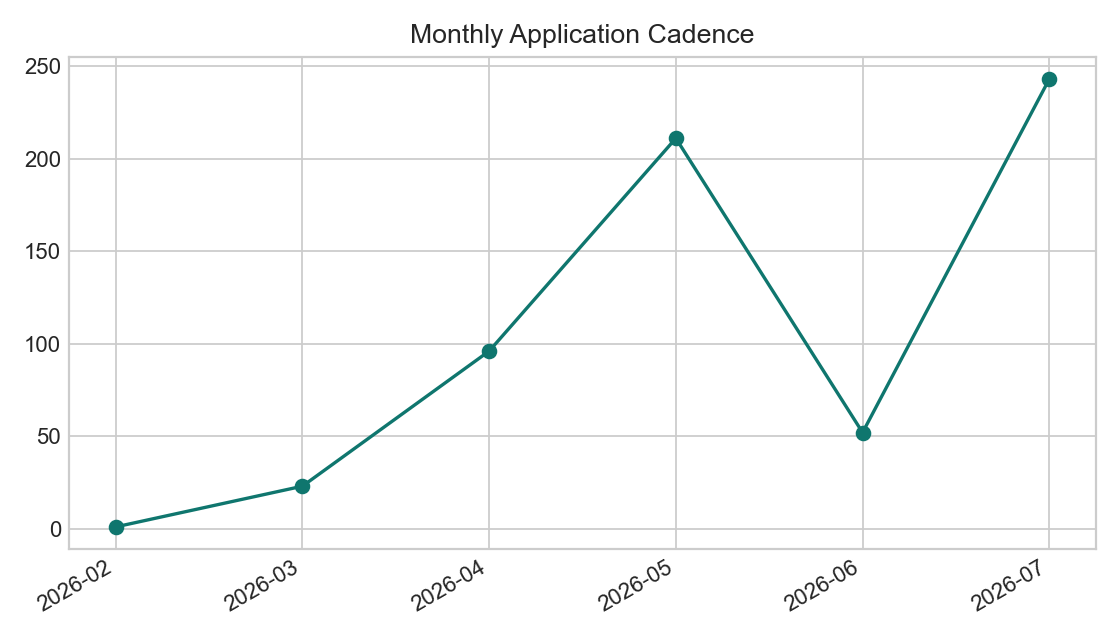
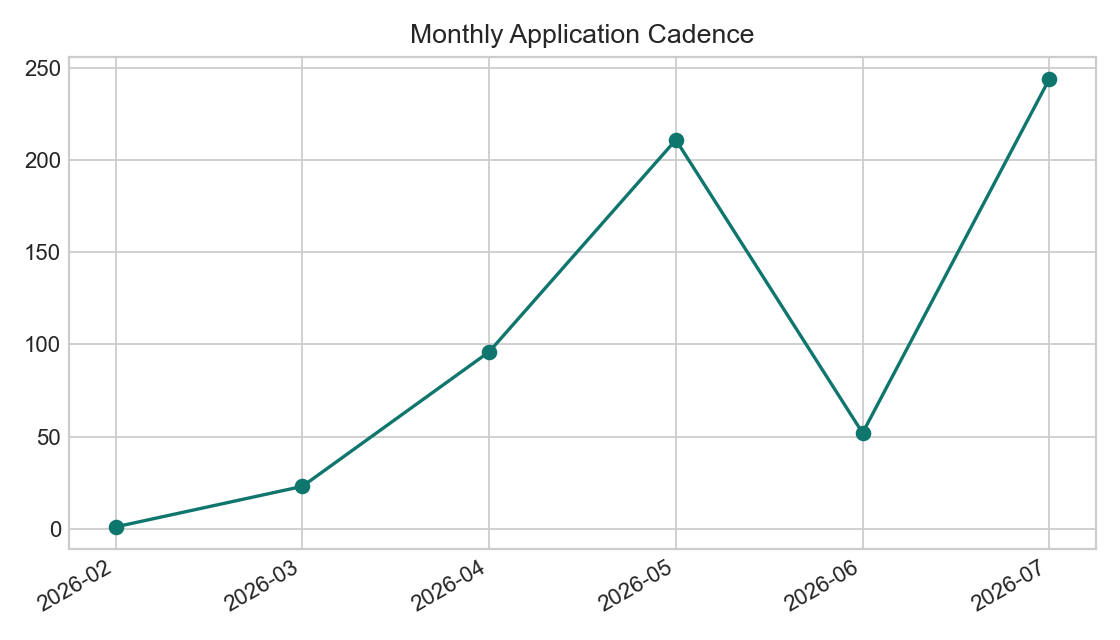
Refresh analytics for 778 merged roles (2026-07-30)

diff --git a/data/daily_summary.md b/data/daily_summary.md
@@ -1,6 +1,6 @@
 # Daily Job Search Summary
 
-_Last refreshed: 2026-07-30T19:39:33-07:00_
+_Last refreshed: 2026-07-30T23:11:10-07:00_
 
 ## Positioning
 
@@ -10,8 +10,8 @@ _Last refreshed: 2026-07-30T19:39:33-07:00_
 
 ## Snapshot
 
-- Tracked roles: 777
-- Active roles: 429
+- Tracked roles: 778
+- Active roles: 430
 - Response rate: 0.8%
 - LinkedIn outreach sent: 28
 - Pending pipeline items: 155
@@ -20,7 +20,7 @@ _Last refreshed: 2026-07-30T19:39:33-07:00_
 
 ## Status Breakdown
 
-- applied: 415
+- applied: 416
 - applied ✅: 1
 - discarded: 5
 - evaluated: 10
@@ -31,6 +31,7 @@ _Last refreshed: 2026-07-30T19:39:33-07:00_
 
 ## Recent Activity
 
+- 2026-07-30: Medpace | Junior Data Governance Analyst | applied
 - 2026-07-29: Kemper | Associate, Audit Data Analyst | applied
 - 2026-07-29: Cruisebound | Data Scientist | applied
 - 2026-07-29: Fabletics | Data Analyst II | applied
@@ -40,7 +41,6 @@ _Last refreshed: 2026-07-30T19:39:33-07:00_
 - 2026-07-29: Mattel | Consumer Data Analyst | applied
 - 2026-07-29: SWBC | Data Analyst | applied
 - 2026-07-29: KIPP SoCal Public Schools | Data Analyst | applied
-- 2026-07-29: Socure | Data Scientist II | skip
 
 ## Recommended Opportunity Queue
 
